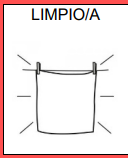
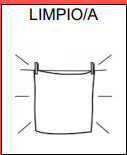
Version Ultimo Dia de Agosto

diff --git a/app/src/main/java/com/example/malenasaac/MainActivity.java b/app/src/main/java/com/example/malenasaac/MainActivity.java
@@ -45,7 +45,6 @@ public class MainActivity extends Activity {
     private final List<String> pictos = new ArrayList<>();
     private final List<PhraseRecord> frases = new ArrayList<>();
     private final List<PhraseRecord.Item> borrador = new ArrayList<>();
-    private PhraseRecord fraseElegida;
     private boolean palabras = true;
     private int frasesDescartadasAlCargar;
     /** Prefijo elegido en el teclado predictivo de pictogramas. */
@@ -110,7 +109,7 @@ public class MainActivity extends Activity {
     private Button tab(String texto, View.OnClickListener accion) { Button b = new Button(this); b.setText(texto.toUpperCase(Locale.ROOT)); b.setTextSize(18); b.setTextColor(0xff263238); b.setAllCaps(false); b.setGravity(Gravity.CENTER); b.setOnClickListener(accion); return b; }
 
     private void mostrarPalabras() {
-        palabras=true; fraseElegida=null; actualizarTabs(); lista.removeAllViews();
+        palabras=true; actualizarTabs(); lista.removeAllViews();
         int indice=0;
         // Las tarjetas ya elegidas siempre se muestran primero, incluso si la misma se eligió más de una vez.
         for(PhraseRecord.Item item:borrador) lista.addView(filaPalabra(item, indice++));
@@ -204,11 +203,14 @@ public class MainActivity extends Activity {
         return etiqueta;
     }
     private View filaFrase(PhraseRecord frase, int indice) {
-        boolean seleccionada = frase == fraseElegida;
-        LinearLayout fila=nuevaFila(); fila.setBackground(fondoFrase(indice, seleccionada));
-        if (seleccionada) fila.setElevation(dp(7));
-        HorizontalScrollView h=new HorizontalScrollView(this); h.setHorizontalScrollBarEnabled(false); h.setFillViewport(true); LinearLayout iconos=new LinearLayout(this); iconos.setGravity(Gravity.CENTER_VERTICAL); h.addView(iconos); h.post(()->dibujarIconosDeFrase(iconos,h,frase)); View.OnClickListener elegir=v->{fraseElegida=frase;mostrarFrases();}; fila.setOnClickListener(elegir); h.setOnClickListener(elegir); iconos.setOnClickListener(elegir); fila.addView(h,peso(1,dp(82),0));
-        if (seleccionada) { ImageButton play = new ImageButton(this); play.setImageResource(android.R.drawable.ic_media_play); play.setContentDescription("Reproducir frase"); play.setBackgroundColor(Color.TRANSPARENT); play.setOnClickListener(v -> ejecutarFrase(frase)); fila.addView(play,fijo(dp(54),dp(54),0)); }
+        LinearLayout fila=nuevaFila(); fila.setBackground(fondoFrase(indice, false));
+        HorizontalScrollView h=new HorizontalScrollView(this); h.setHorizontalScrollBarEnabled(false); h.setFillViewport(true);
+        LinearLayout iconos=new LinearLayout(this); iconos.setGravity(Gravity.CENTER_VERTICAL); h.addView(iconos);
+        h.post(()->dibujarIconosDeFrase(iconos,h,frase));
+        fila.addView(h,peso(1,dp(82),0));
+        ImageButton play = new ImageButton(this); play.setImageResource(android.R.drawable.ic_media_play);
+        play.setContentDescription("Reproducir frase"); play.setBackgroundColor(Color.TRANSPARENT);
+        play.setOnClickListener(v -> ejecutarFrase(frase)); fila.addView(play,fijo(dp(54),dp(54),0));
         ImageButton borrar=papelera("Eliminar frase"); borrar.setOnClickListener(v->confirmar(frase)); fila.addView(borrar,fijo(dp(54),dp(54),0)); return fila;
     }
     private void dibujarIconosDeFrase(LinearLayout destino, View espacio, PhraseRecord frase) {
@@ -294,23 +296,43 @@ public class MainActivity extends Activity {
 
     private void enviar() {
         List<PhraseRecord.Item> items=copiar(borrador); if(items.isEmpty()){Toast.makeText(this,"Seleccioná al menos un pictograma.",Toast.LENGTH_SHORT).show();return;}
-        // Se guarda arriba (última ejecución) y el borrador se conserva para seguir editando.
-        frases.add(0, new PhraseRecord(items));
+        // Si ya está en Frases, solo pasa a ser la última ejecutada; si no, se agrega.
+        marcarUltimaEjecucion(items);
         PhraseStore.guardar(this,frases); guardarRespaldo();
-        ejecutar(items,()->{fraseElegida=null;mostrarPalabras();});
+        ejecutar(items,()->mostrarPalabras());
     }
     private void ejecutarFrase(PhraseRecord frase) {
-        // Sale de Frases y queda en Palabras para reejecutar o editar (reemplaza el borrador actual).
-        frases.remove(frase);
+        // Queda en Frases como última ejecutada y se carga en Palabras para editar/reejecutar.
+        frases.remove(frase); frases.add(0, frase);
         PhraseStore.guardar(this,frases); guardarRespaldo();
         List<PhraseRecord.Item> items = copiar(frase.items);
         ejecutar(items, () -> {
-            fraseElegida = null;
             borrador.clear();
             borrador.addAll(copiar(items));
             filtroTeclado = "";
             mostrarPalabras();
         });
+    }
+
+    /** Mueve la frase existente al tope o la agrega si es nueva. */
+    private void marcarUltimaEjecucion(List<PhraseRecord.Item> items) {
+        for (int i = 0; i < frases.size(); i++) {
+            if (mismosItems(frases.get(i).items, items)) {
+                PhraseRecord existente = frases.remove(i);
+                frases.add(0, existente);
+                return;
+            }
+        }
+        frases.add(0, new PhraseRecord(items));
+    }
+
+    private static boolean mismosItems(List<PhraseRecord.Item> a, List<PhraseRecord.Item> b) {
+        if (a.size() != b.size()) return false;
+        for (int i = 0; i < a.size(); i++) {
+            PhraseRecord.Item x = a.get(i), y = b.get(i);
+            if (!x.archivo.equals(y.archivo) || x.negado != y.negado) return false;
+        }
+        return true;
     }
     private void ejecutar(List<PhraseRecord.Item> items, Runnable fin) {
         contenido.setVisibility(View.GONE); FrameLayout raiz=(FrameLayout)contenido.getParent(); raiz.setClipChildren(false); raiz.setClipToPadding(false); LinearLayout tren=new LinearLayout(this);tren.setGravity(Gravity.CENTER_VERTICAL);tren.setClipChildren(false);tren.setClipToPadding(false);for(PhraseRecord.Item i:items)tren.addView(picto(i,false,dp(185),dp(3),true)); int anchoTren=items.size()*(dp(185)+dp(6)); raiz.addView(tren,new FrameLayout.LayoutParams(anchoTren,dp(210),Gravity.CENTER_VERTICAL));
@@ -366,7 +388,7 @@ public class MainActivity extends Activity {
     }
 
     private float getTouchSlop(){return ViewConfiguration.get(this).getScaledTouchSlop();}
-    private void confirmar(PhraseRecord frase){new AlertDialog.Builder(this).setTitle("Eliminar frase").setMessage("¿Seguro que querés borrar esta frase?").setNegativeButton("Cancelar",null).setPositiveButton("Eliminar",(d,w)->{frases.remove(frase);PhraseStore.guardar(this,frases);guardarRespaldo();if(fraseElegida==frase)fraseElegida=null;mostrarFrases();}).show();}
+    private void confirmar(PhraseRecord frase){new AlertDialog.Builder(this).setTitle("Eliminar frase").setMessage("¿Seguro que querés borrar esta frase?").setNegativeButton("Cancelar",null).setPositiveButton("Eliminar",(d,w)->{frases.remove(frase);PhraseStore.guardar(this,frases);guardarRespaldo();mostrarFrases();}).show();}
 
     private void ofrecerRestauracion() {
         new AlertDialog.Builder(this).setTitle("¿Restaurar frases guardadas?")
